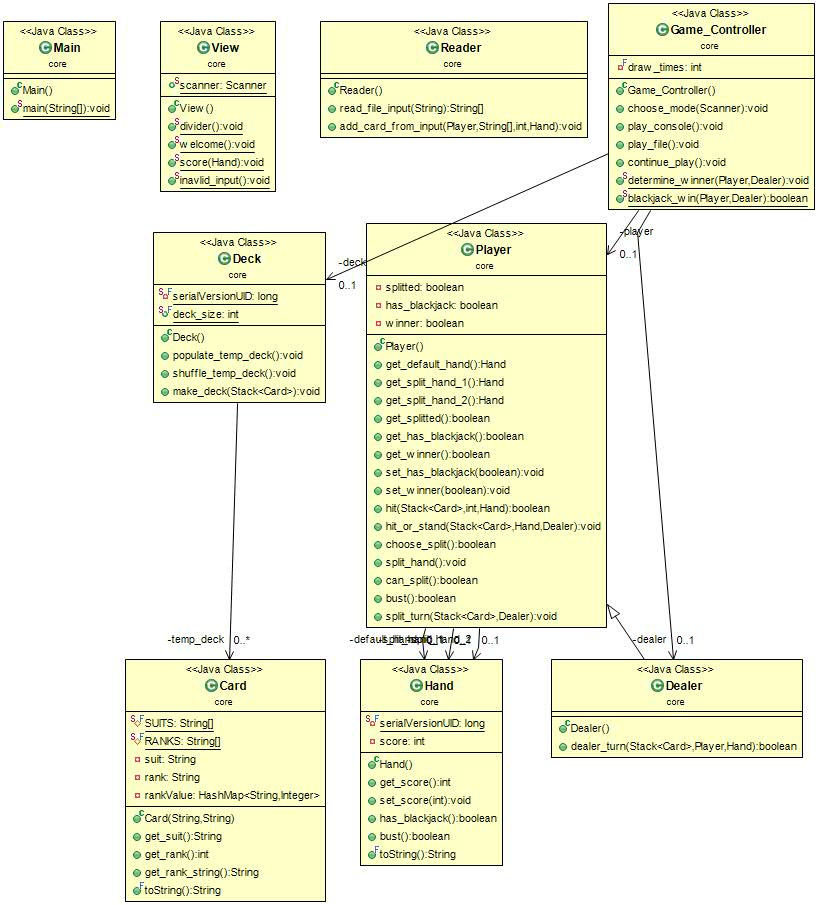
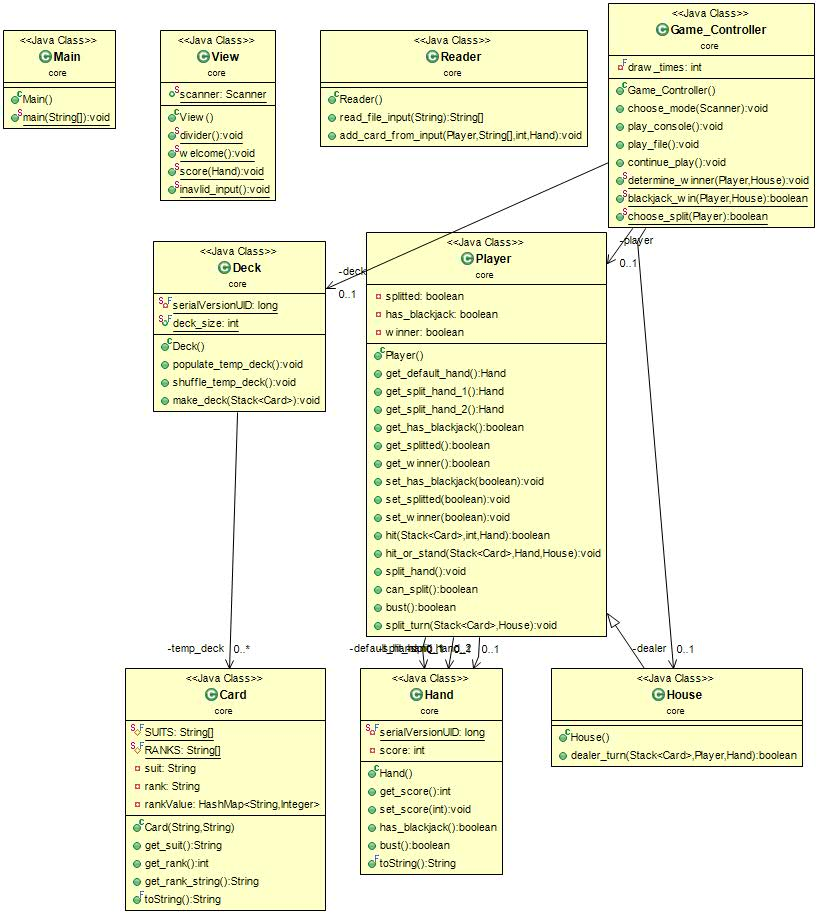
Refactor
* Split
* Player-Dealer Inheritance

Changed region(s): [[0.1834, 0.0, 1.0, 0.9591], [0.1528, 0.6807, 0.3973, 0.9901], [0.0, 0.0, 0.1528, 0.1547]]

diff --git a/Maven_Project/src/main/java/core/Game_Controller.java b/Maven_Project/src/main/java/core/Game_Controller.java
@@ -12,7 +12,7 @@ public class Game_Controller {
 	private final int draw_times = 2;
 	private Deck deck;
 	private Player player;
-	private Dealer dealer;
+	private House dealer;
 
 	/********
 	 * ELSE *
@@ -50,7 +50,7 @@ public class Game_Controller {
 		// Local variables
 		deck = new Deck();
 		player = new Player();
-		dealer = new Dealer();
+		dealer = new House();
 
 		// Player setup
 		player.hit(deck, draw_times, player.get_default_hand());
@@ -65,7 +65,7 @@ public class Game_Controller {
 		if(!player.get_winner() && !dealer.get_winner()) {
 			// Player's turn
 			if(player.can_split()) {
-				if(player.choose_split()) {
+				if(choose_split(player)) {
 					player.split_hand();
 					player.split_turn(deck, dealer);
 				}
@@ -76,7 +76,7 @@ public class Game_Controller {
 			// Dealer's turn
 			System.out.println(dealer.get_default_hand());
 			if(dealer.can_split()) {
-				if(dealer.choose_split()) {
+				if(choose_split(dealer)) {
 					dealer.split_hand();
 					dealer.dealer_turn(deck, player, dealer.get_split_hand_1());
 					dealer.dealer_turn(deck, player, dealer.get_split_hand_2());
@@ -101,7 +101,7 @@ public class Game_Controller {
 		// Local variables
 		boolean stand = false;
 		player = new Player();
-		dealer = new Dealer();
+		dealer = new House();
 
 		// Paths to files
 		//		String path_1 = "src\\main\\java\\text_files\\Input_File_1.txt";
@@ -190,7 +190,7 @@ public class Game_Controller {
 	 * If neither the player nor the dealer busts, scores are compared to determine winner
 	 * @param dealer
 	 */
-	public static void determine_winner(Player player, Dealer dealer) {	
+	public static void determine_winner(Player player, House dealer) {	
 		// Variables
 		int player_highest_score = 0;
 		int dealer_highest_score = 0;
@@ -256,7 +256,7 @@ public class Game_Controller {
 	 * @param dealer whose hands will be checked for blackjacks
 	 * @return true if either the player, dealer or both have at least one blackjack
 	 */
-	public static boolean blackjack_win(Player player, Dealer dealer) {
+	public static boolean blackjack_win(Player player, House dealer) {
 		if(player.get_default_hand().has_blackjack() || player.get_split_hand_1().has_blackjack() || player.get_split_hand_2().has_blackjack()) {
 			player.set_has_blackjack(true);
 		}
@@ -281,5 +281,22 @@ public class Game_Controller {
 		}
 
 		return false;
+	}
+	
+	/**
+	 * Give player the option to split hand.
+	 * @return true if split has been chosen
+	 */
+	public static boolean choose_split(Player guest_or_house) {
+		String choose_split;
+
+		System.out.println("Would you like to split? (y/n): ");
+		choose_split = View.scanner.next();
+
+		if(choose_split.equalsIgnoreCase("y")) {
+			guest_or_house.set_splitted(true);
+			return true;
+		}
+		else return false;
 	}
 }

diff --git a/Maven_Project/src/main/java/core/Player.java b/Maven_Project/src/main/java/core/Player.java
@@ -9,8 +9,9 @@ public class Player {
 	private Hand default_hand;
 	private Hand split_hand_1;
 	private Hand split_hand_2;
-	private boolean splitted;
+	
 	private boolean has_blackjack;
+	private boolean splitted;
 	private boolean winner;
 
 	/******************
@@ -20,8 +21,9 @@ public class Player {
 		default_hand = new Hand();
 		split_hand_1 = new Hand();
 		split_hand_2 = new Hand();
-		splitted = false;
+		
 		has_blackjack = false;
+		splitted = false;
 		winner = false;
 	}
 
@@ -31,14 +33,16 @@ public class Player {
 	public Hand get_default_hand() { return default_hand; }
 	public Hand get_split_hand_1() { return split_hand_1; }
 	public Hand get_split_hand_2() { return split_hand_2; }
-	public boolean get_splitted() { return splitted; }
+	
 	public boolean get_has_blackjack() { return has_blackjack; }
+	public boolean get_splitted() { return splitted; }
 	public boolean get_winner() { return winner; }
 
 	/*************
 	 * SETTER(S) *
 	 *************/
 	public void set_has_blackjack(boolean true_or_false) { has_blackjack = true_or_false; }
+	public void set_splitted(boolean true_or_false) { splitted = true_or_false; }
 	public void set_winner(boolean true_or_false) { winner = true_or_false; }
 
 	/********
@@ -62,7 +66,7 @@ public class Player {
 	 * @param hand to add card drawn
 	 * @return true if stand is chosen
 	 */
-	public void hit_or_stand(Stack<Card> deck, Hand hand, Dealer dealer) {
+	public void hit_or_stand(Stack<Card> deck, Hand hand, House dealer) {
 		// Local variables
 		boolean stand = false;
 
@@ -94,23 +98,6 @@ public class Player {
 				bust();
 			}
 		}
-	}
-
-	/**
-	 * Give player the option to split hand.
-	 * @return true if split has been chosen
-	 */
-	public boolean choose_split() {
-		String choose_split;
-
-		System.out.println("Would you like to split? (y/n): ");
-		choose_split = View.scanner.next();
-
-		if(choose_split.equalsIgnoreCase("y")) {
-			splitted = true;
-			return true;
-		}
-		else return false;
 	}
 
 	/**
@@ -148,7 +135,7 @@ public class Player {
 	 * Routine for a turn after splitting initial hand.
 	 * @param deck to draw from
 	 */
-	public void split_turn(Stack<Card> deck, Dealer dealer) {
+	public void split_turn(Stack<Card> deck, House dealer) {
 		hit(deck, 1, get_split_hand_1());
 		hit_or_stand(deck, get_split_hand_1(), dealer);
 

diff --git a/Maven_Project/src/test/java/core/Tests.java b/Maven_Project/src/test/java/core/Tests.java
@@ -37,13 +37,13 @@ public class Tests extends TestCase {
 	Player player_5 = new Player();
 	Player player_6 = new Player();
 	
-	Dealer dealer_0 = new Dealer();
-	Dealer dealer_1 = new Dealer();
-	Dealer dealer_2 = new Dealer();
-	Dealer dealer_3 = new Dealer();
-	Dealer dealer_4 = new Dealer();
-	Dealer dealer_5 = new Dealer();
-	Dealer dealer_6 = new Dealer();
+	House dealer_0 = new House();
+	House dealer_1 = new House();
+	House dealer_2 = new House();
+	House dealer_3 = new House();
+	House dealer_4 = new House();
+	House dealer_5 = new House();
+	House dealer_6 = new House();
 	
 	Deck deck_maker = new Deck();
 	Game_Controller game = new Game_Controller();
@@ -659,7 +659,7 @@ public class Tests extends TestCase {
 //		
 //		deck_maker.make_deck(deck_1);
 //		
-//		if(player_0.choose_split()) {
+//		if(Game_Controller.choose_split(player_0)) {
 //			player_0.split_hand();
 //			player_0.split_turn(deck_1, dealer_0);
 //		}
@@ -683,7 +683,7 @@ public class Tests extends TestCase {
 //		
 //		deck_maker.make_deck(deck_1);
 //		
-//		if(dealer_0.choose_split()) {
+//		if(Game_Controller.choose_split(dealer_0)) {
 //			dealer_0.split_hand();
 //			dealer_0.dealer_turn(deck_1, player_0, dealer_0.get_split_hand_1());
 //			dealer_0.dealer_turn(deck_1, player_0, dealer_0.get_split_hand_2());

diff --git a/Maven_Project/src/main/java/core/House.java b/Maven_Project/src/main/java/core/House.java
@@ -2,7 +2,7 @@ package core;
 
 import java.util.Stack;
 
-public class Dealer extends Player {	
+public class House extends Player {	
 	
 	/********
 	 * ELSE *

diff --git a/Maven_Project/src/main/java/core/Guest.java b/Maven_Project/src/main/java/core/Guest.java
@@ -1,0 +1,7 @@
+package core;
+
+public class Guest extends Player{
+	
+	
+
+}
